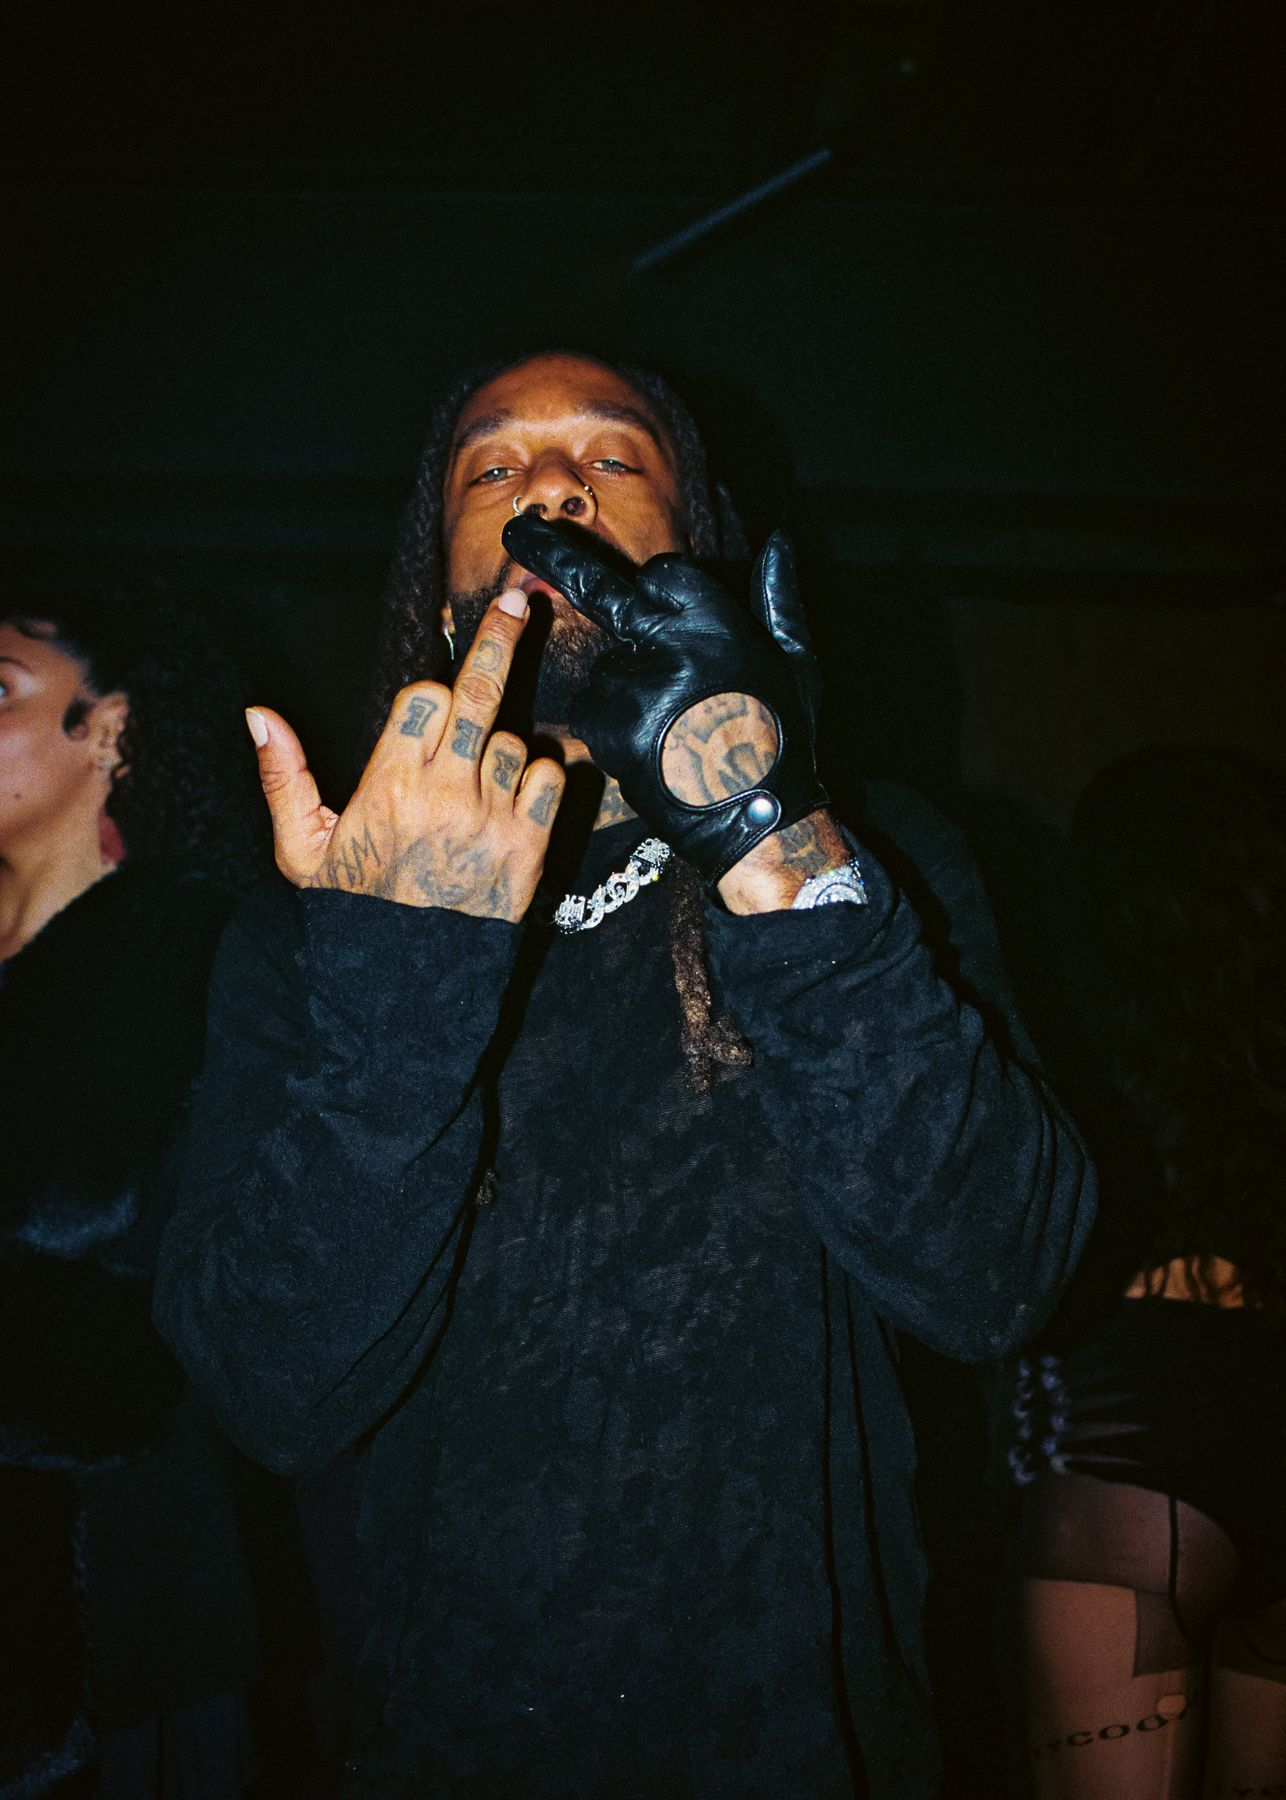
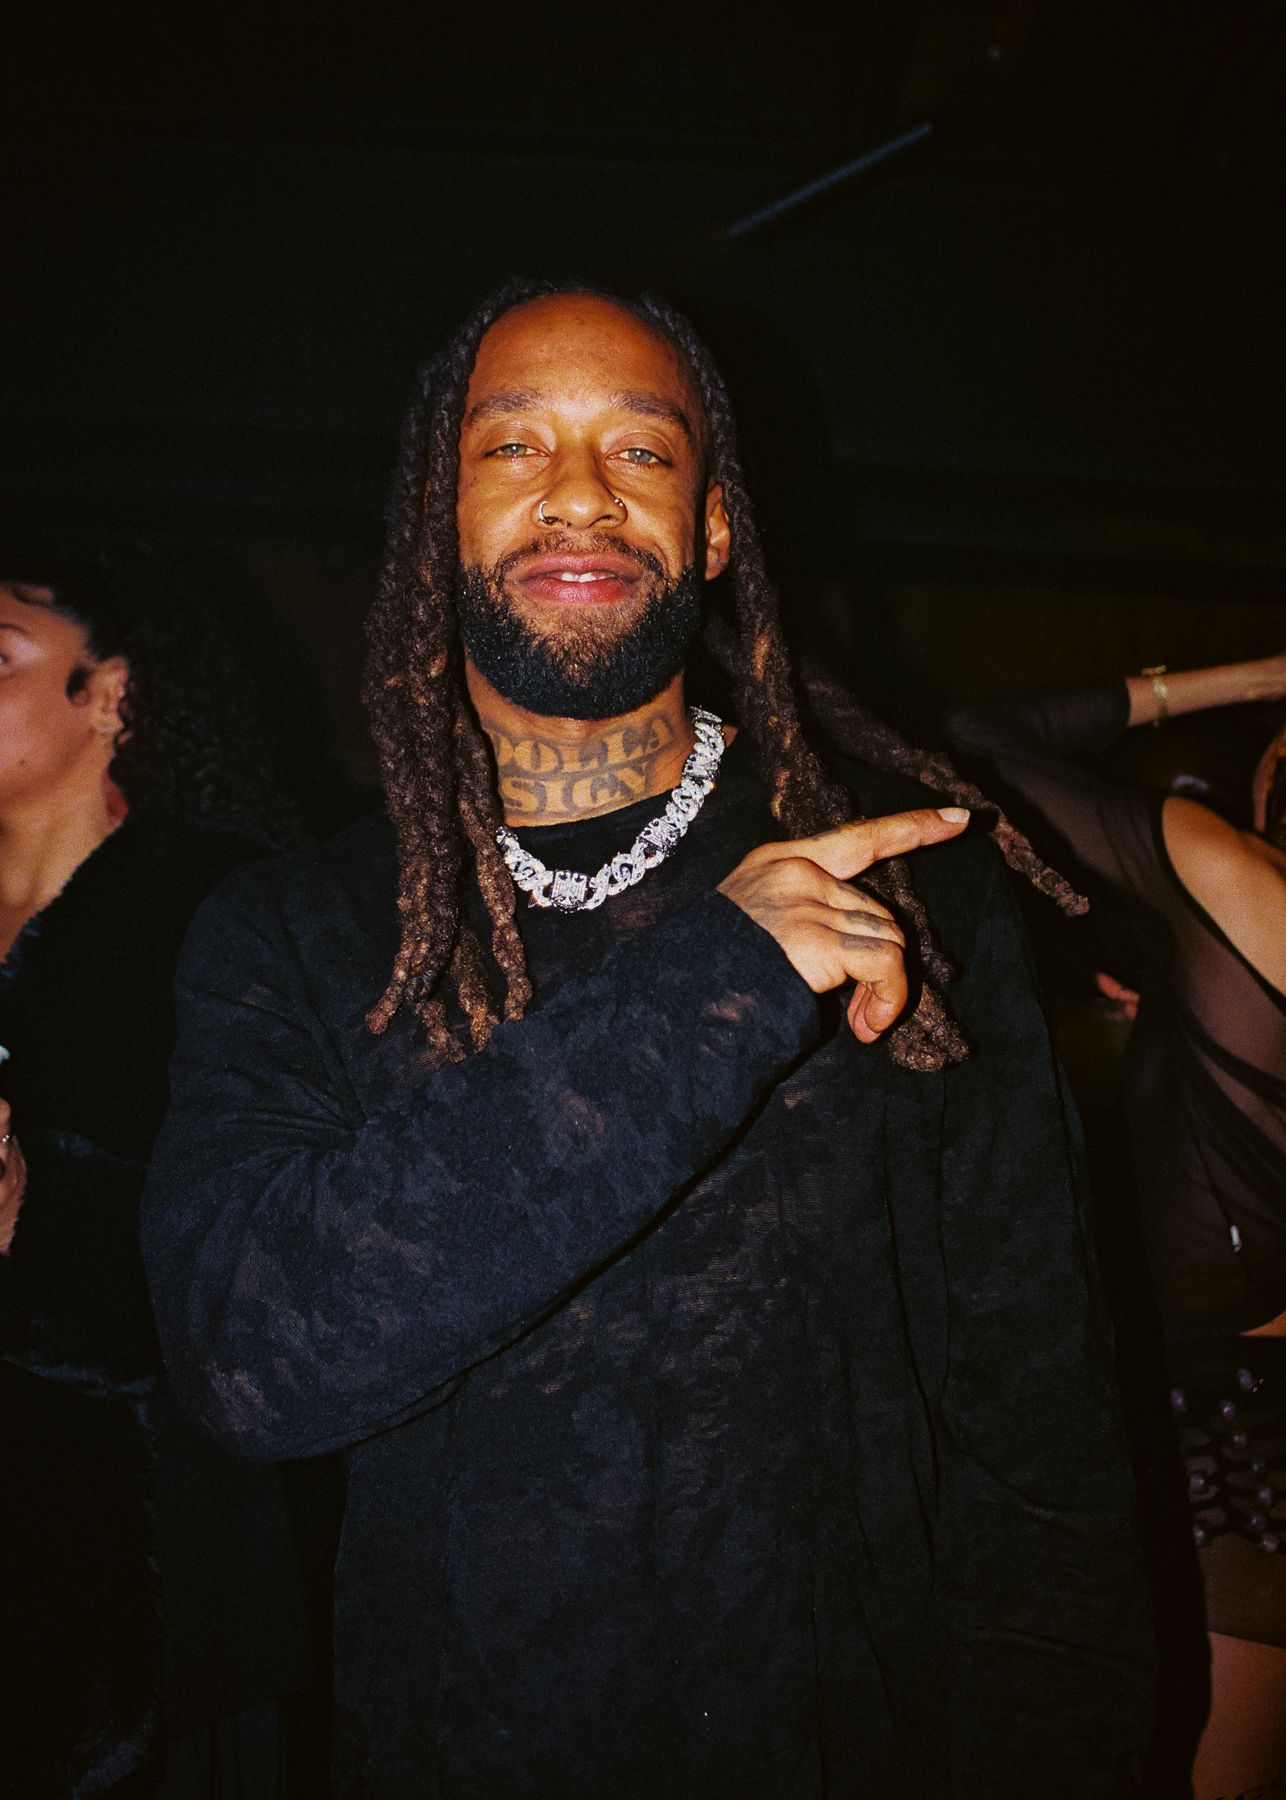
largebookingdeck: Ruby's picked portraits, sax for Live performers

diff --git a/largebookingdeck.html b/largebookingdeck.html
@@ -92,7 +92,7 @@
 
 .room{display:grid;gap:10px}
 .room__film{aspect-ratio:16/9;border-radius:14px}
-.room__strip{display:grid;grid-template-columns:repeat(4,minmax(0,1fr));gap:10px}
+.room__strip{display:grid;grid-template-columns:repeat(3,minmax(0,1fr));gap:10px}
 .room__strip img{width:100%;aspect-ratio:4/5;object-fit:cover;border-radius:10px;display:block}
 .near{padding:10px 26px 20px}
 .near ul{list-style:none;margin:0;padding:0;display:grid;grid-template-columns:repeat(2,minmax(0,1fr));column-gap:40px}
@@ -169,10 +169,9 @@
       <div class="room reveal">
         <div class="room__film wrow__media"><video muted loop playsinline preload="none" poster="assets/fabrika-deck/fabrika-room-poster.jpg"><source src="assets/fabrika-deck/fabrika-room.mp4" type="video/mp4"></video><button class="snd" type="button" title="Sound" aria-label="Sound on"><svg viewBox="0 0 24 24" width="16" height="16" fill="none" stroke="currentColor" stroke-width="1.8" stroke-linecap="round" stroke-linejoin="round"><path d="M4 9v6h4l5 4V5L8 9z"/><path class="w" d="M16 9a4 4 0 0 1 0 6"/></svg></button></div>
         <div class="room__strip">
-          <img src="assets/fabrika-deck/p-orange.jpg" alt="Guest in an orange wig and blue track jacket" loading="lazy">
-          <img src="assets/fabrika-deck/p-blue.jpg" alt="Guest with blue hair and blue lips in denim" loading="lazy">
-          <img src="assets/fabrika-deck/p-tee.jpg" alt="Guest posing in a white crop tee" loading="lazy">
-          <img src="assets/fabrika-deck/p-laugh.jpg" alt="Guest laughing in a leopard bucket hat" loading="lazy">
+          <img src="assets/fabrika-deck/p-jersey.jpg" alt="Two guests smiling, one in a white football jersey" loading="lazy">
+          <img src="assets/fabrika-deck/p-denim.jpg" alt="Two friends posing, one in a denim jacket" loading="lazy">
+          <img src="assets/fabrika-deck/p-handface.jpg" alt="Guest with a hand over her face and red lips" loading="lazy">
         </div>
       </div>
     </div>
@@ -271,7 +270,7 @@
       <div class="acts reveal">
         <figure class="act"><div class="act__img"><img src="assets/fabrika-deck/kwn-aerial.jpg" alt="Aerialist in a hoop above the crowd" loading="lazy"></div><figcaption>Aerialists</figcaption></figure>
         <figure class="act"><div class="act__img"><video muted loop playsinline autoplay preload="metadata" poster="assets/fabrika-deck/fire-poster.jpg" aria-label="Fire performer spinning flaming fans"><source src="assets/fabrika-deck/fire.mp4" type="video/mp4"></video></div><figcaption>Fire</figcaption></figure>
-        <figure class="act"><div class="act__img"><img src="assets/fabrika-deck/p-fur.jpg" alt="Performers in white fur dancing by the booth" loading="lazy"></div><figcaption>Live performers</figcaption></figure>
+        <figure class="act"><div class="act__img"><img src="assets/fabrika-deck/sax.jpg" alt="Saxophonist playing in red light" loading="lazy"></div><figcaption>Live performers</figcaption></figure>
         <figure class="act"><div class="act__img"><img src="assets/fabrika-deck/chainz-dj.jpg" alt="DJ in the booth under blue light" loading="lazy"></div><figcaption>Curated DJs</figcaption></figure>
       </div>
     </div>
@@ -350,7 +349,10 @@
         <div class="wrow__media"><video muted loop playsinline preload="none" poster="assets/poster-leon.jpg"><source src="assets/video-leon-thomas.mp4" type="video/mp4"></video><button class="snd" type="button" title="Sound" aria-label="Sound on"><svg viewBox="0 0 24 24" width="16" height="16" fill="none" stroke="currentColor" stroke-width="1.8" stroke-linecap="round" stroke-linejoin="round"><path d="M4 9v6h4l5 4V5L8 9z"/><path class="w" d="M16 9a4 4 0 0 1 0 6"/></svg></button></div>
         <div class="strip">
           <img class="wide" src="assets/fabrika-deck/leon-stage.jpg" alt="Leon Thomas and Ty Dolla $ign in the DJ booth" loading="lazy">
-          <img src="assets/fabrika-deck/p-ty.jpg" alt="Ty Dolla $ign in the room" loading="lazy">
+          <img src="assets/fabrika-deck/p-ty.jpg" alt="Ty Dolla $ign smiling and pointing" loading="lazy">
+          <img src="assets/fabrika-deck/p-chalks.jpg" alt="Guest in a beanie and sunglasses smiling at the table" loading="lazy">
+          <img src="assets/fabrika-deck/p-orange.jpg" alt="Guest in an orange wig and blue track jacket" loading="lazy">
+          <img src="assets/fabrika-deck/p-greenhood.jpg" alt="Two guests with drinks, one in a green hoodie" loading="lazy">
           <div class="strip__film"><video muted loop playsinline preload="metadata" poster="assets/fabrika-deck/ty-poster.jpg" aria-label="Ty Dolla $ign in the room"><source src="assets/fabrika-deck/ty.mp4" type="video/mp4"></video></div>
         </div>
       </article>
